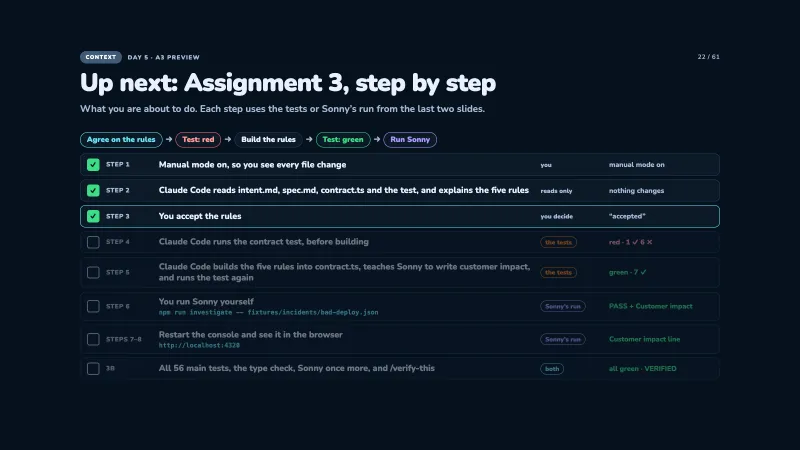
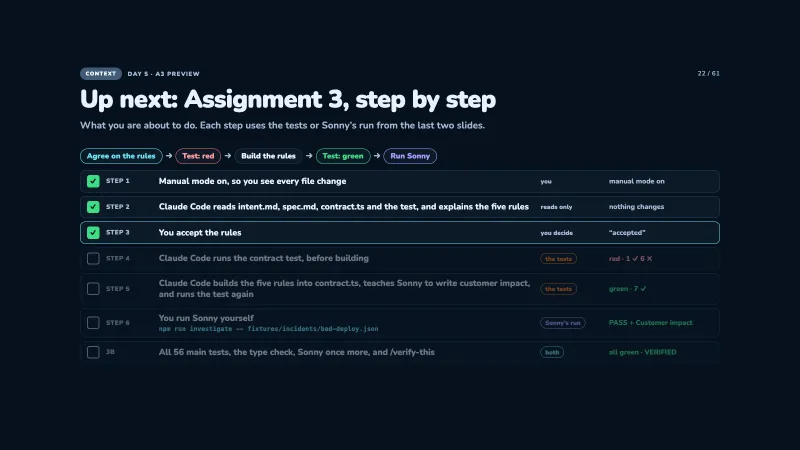
Day 5 A3: browser steps 7–8 removed, A3 ends at step 6 in the terminal; 3B without the browser; review note for Ryan in the Overview
Why: tested on day5-after-a3, the console's "+ New investigation" never shows the
03:45 diagnosis from step 6. Without the shop it shows "no telemetry … start the
shop", and with a healthy shop it investigates the live shop (#noise, Customer
impact: none observed). The shop only starts in A6. So steps 7–8 and the 3B browser
step taught something that does not happen.

- A3: steps 7–8 removed. Expected text, checks, teach (do/done/copy/script/watch/
  changes) now say the Customer impact line shows in step 6.
- 3B: prompt a3BuildProve no longer asks for localhost:4320; browser step 4 removed;
  step 1 expected text and script lose "the browser".
- Slide 22 checklist: the "Steps 7–8" row removed, notes and step pictures s22-1..6 retaken.
- Slide 21 notes: 3B no longer lists the browser.
- Overview (app.js, opt-in): slide.review = {to, text} shows a yellow "✎ Ryan" tag on
  the tile and the note under the big preview. A3 carries a note for Ryan to check the
  console/shop question and A1 step 6.
- Caches: styles v196, slides v46, app v177.

diff --git a/day5-jessy-slides.js b/day5-jessy-slides.js
@@ -10,7 +10,7 @@ const PROMPTS = {
   a3Contract: `Read the accepted intent.md, docs/spec.md, src/contract.ts, src/runtime.ts, src/prompts.ts, and the A3 workshop test. Explain the verdict contract in plain English. Propose the smallest change for all five rules in TODO(A3): customer_impact is required and non-empty, rollback needs a deploys evidence line, a strong proposal needs at least two sources, low confidence cannot carry a strong proposal, and high confidence is refused while data_gaps exist. The change keeps unsupported claims OPEN and keeps the offline and optional model schemas aligned. Keep versions, regions, and customer segments OPEN unless the cited metric establishes them. Do not edit. Stop for my contract review.`,
   a3Build: `Use the accepted contract. Run only the focused A3 test. Explain the red assertion before editing. List the files that must change and why. Do not edit yet. Stop for my build-scope review.`,
   a3BuildImplement: `Implement the accepted A3 scope. Update TODO(A3), docs/spec.md, the contract and prompt schemas, every offline verdict branch, the affected fixtures, and the customer_impact output in src/cli.ts and console/index.html. Do not change unrelated scaffolding. Rerun only the focused A3 test and show the diff. Do not approve, execute, resolve, or push.`,
-  a3BuildProve: `Run the main tests, typecheck, and the offline investigation. Show customer_impact in the exact CLI output and at http://localhost:4320. Keep unsupported versions, regions, and customer segments OPEN. Report any failure before editing again. Do not push.`,
+  a3BuildProve: `Run the main tests, typecheck, and the offline investigation. Show customer_impact in the exact CLI output. Keep unsupported versions, regions, and customer segments OPEN. Report any failure before editing again. Do not push.`,
   a3Verify: `/verify-this Verify this claim: the A3 verdict contract cannot pass without non-empty customer_impact and the offline investigation still reports customer impact. Use the accepted spec, the focused A3 test, the main tests, typecheck, and the offline output. Report VERIFIED, NOT VERIFIED, or INCONCLUSIVE with file and output references. Stay read-only.`,
   a4Chat: `Read intent.md, src/chat.ts, and test/workshop/chat.test.ts. Explain the chat-refusal contract. Add a named MUTATION regex constant. Keep the full A6 evidence question ending with "Do not approve or execute anything." read-only. Refuse "Do not approve and roll back now." as a mutation. Show the focused chat test red, then implement only TODO(A4) in src/chat.ts. Rerun the focused chat test and show its output and the diff. Do not inspect approvals/audit.jsonl or edit .claude/, approvals/, lessons/lessons.md, PROGRESS.md, or bench/ratchet.json. Stop before the human hook step.`,
   a4Review: `Read the human edit in .claude/hooks/guard.mjs and test/workshop/guard.test.ts. Do not edit either file. Run only the focused guard test. Explain whether Edit and Write to bench/ratchet.json are denied. Do not claim that the hook blocks every shell command. Stop for my review.`,
@@ -61,12 +61,13 @@ const teachFromNotes = ({title, subtitle, keyPoints, notes}) => {
   };
 };
 
-const baseSlide = ({title, kicker, subtitle, type = 'concept', cards = [], keyPoints = [], notes, stage, beat, visual, layout, items, tagline, prompt, stepsHeading, steps, expected, repo, source, teach, mode, calm, assignmentId, detail}) => ({
-  title, kicker, subtitle, type, cards, keyPoints, notes, stage, beat, visual, layout, items, tagline, prompt, stepsHeading, steps, expected, repo, source, mode, calm, assignmentId, detail,
+const baseSlide = ({title, kicker, subtitle, type = 'concept', cards = [], keyPoints = [], notes, stage, beat, visual, layout, items, tagline, prompt, stepsHeading, steps, expected, repo, source, teach, mode, calm, assignmentId, detail, review}) => ({
+  title, kicker, subtitle, type, cards, keyPoints, notes, stage, beat, visual, layout, items, tagline, prompt, stepsHeading, steps, expected, repo, source, mode, calm, assignmentId, detail, review,
   teach: teach || teachFromNotes({title, subtitle, keyPoints, notes})
 });
 
-const assignmentSlide = ({number, title, subtitle, stage, duration, steps, after, checks, humanOpen, next, shot, teach, shotLabel}) => baseSlide({
+const assignmentSlide = ({number, title, subtitle, stage, duration, steps, after, checks, humanOpen, next, shot, teach, shotLabel, review}) => baseSlide({
+  review,
   title: `Assignment ${number}: ${title}`,
   kicker: `Day 5 · A${number} · BUILD`,
   subtitle,
@@ -136,6 +137,8 @@ const pauseSlide = (title, time, next, at) => baseSlide({
 });
 
 // Sonny’s run and the tests: the two ways into src/contract.ts (strip on top of slides 20 and 21; `here` = the lit one)
+// Review note for Ryan, shown only on the Overview page (tag on the tile + the note under the big preview)
+const REVIEW_A3 = {to: 'Ryan', text: 'Please check (Jessy, 10 Nov): Assignment 3 steps 7–8 (restart the console, “+ New investigation” in the browser) are removed from this deck. The console investigates the live demo shop (demo/data/telemetry.json, written by npm run shop), not the saved INC-1001 night, and the shop is only started in A6. Tested on day5-after-a3: without the shop, step 8 shows “no telemetry … start the shop (npm run shop)”; with a healthy shop it shows “#noise · no action · Customer impact: none observed”, so never the 03:45 diagnosis from step 6. Also removed: “at http://localhost:4320” from the 3B prompt and the 3B browser step. Still open: A1 step 6 expects “the shop, telemetry and listening” but nobody starts the shop there (the console shows “shop offline · no telemetry”). Is the browser step meant with the shop running, or should the console get the fixture data?'};
 const CONTRACT_DOORS = (here) => ({title: 'Two ways into src/contract.ts. They never touch.', here, otherNote: here ? 'last slide' : 'next slide', target: 'src/contract.ts', targetNote: 'the contract · parseVerdict()',
   doors: [{tag: 'A', icon: '🔎', name: 'Sonny’s run', when: 'Every incident, also at 03:45. Automatic.', cmd: 'npm run investigate', path: ['cli.ts', 'agent.ts']},
     {tag: 'B', icon: '🧪', name: 'The tests', when: 'Only when someone types it. Never at 03:45.', cmd: 'npm run test:workshop', path: ['contract.test.ts']}]});
@@ -855,7 +858,7 @@ const day5Slides = [
       {title: 'The score', body: 'Red first proves each test really checks something. Assignment 3 turns all seven green.'}
     ],
     keyPoints: ['The tests: npm run test:workshop → contract.test.ts → parseVerdict in contract.ts. No Sonny, no AI.', 'Seven made-up diagnoses: one must pass, six must be refused. Today 1 of 7 right; after Assignment 3, 7 of 7.', 'Only when someone types it: in Assignment 3 (steps 4 and 5) and 3B. Never at 03:45.'],
-    notes: 'Time: 11:34 · 4 min. No SDLC tracker. Clicks (→): 1–6 open the six code blocks, 7 the orange bar and the line at the bottom. Click a block to jump; ← steps back. Strip on top: the tests are lit now, Sonny’s run is dimmed. All code is from workshop/start, shortened with “…”. The path: npm run test:workshop = node scripts/test-workshop.mjs, which runs every *.test.ts in test/workshop/ with node --test (20 tests in 5 files: on workshop/start pass 6 / fail 14, that is why the bar shows the focused command). test/workshop/contract.test.ts imports only parseVerdict from src/contract.ts: nothing in src/ calls the tests, and the tests never call cli.ts or agent.ts. That is why you cannot follow the code from Sonny’s run to the tests: they only share contract.ts. The seven tests (checked on workshop/start with npx tsx --test test/workshop/contract.test.ts: pass 1 / fail 6; on tag day5-after-a3: pass 7 / fail 0): 1 complete verdict passes · 2 customer_impact required and non-empty · 3 rollback needs a deploys line · 4 a strong proposal needs 2 sources · 5 low confidence cannot carry a strong proposal · 6 at least one evidence line (already green: the format check refuses empty evidence) · 7 high confidence refused while data_gaps exist. Test 1 is red today because the contract does not know customer_impact yet (“customer_impact: unknown field”); 2–5 and 7 are red because the rules are missing. The refusal tests also check the reason text (/rollback requires a deploys/, /at least 2 sources/, /low confidence/, /data_gaps/). In Assignment 3 the step 4 prompt runs only this test before editing (red), step 5 reruns it after the build (green). Assignment 3B runs all main tests, the type check, npm run investigate and the browser, plus /verify-this. The bottom line: tests only answer “does the contract follow the rules?”. “Are these the right rules?” is the step 3 review (the team’s rules from docs/spec.md and the TODO(A3) comment, against the goal in intent.md). “Does Sonny still get through?” is Sonny’s run again: today offlineVerdict writes no customer_impact, so the A3 build also changes src/runtime.ts, src/prompts.ts and VERDICT_SCHEMA; step 6 shows it.',
+    notes: 'Time: 11:34 · 4 min. No SDLC tracker. Clicks (→): 1–6 open the six code blocks, 7 the orange bar and the line at the bottom. Click a block to jump; ← steps back. Strip on top: the tests are lit now, Sonny’s run is dimmed. All code is from workshop/start, shortened with “…”. The path: npm run test:workshop = node scripts/test-workshop.mjs, which runs every *.test.ts in test/workshop/ with node --test (20 tests in 5 files: on workshop/start pass 6 / fail 14, that is why the bar shows the focused command). test/workshop/contract.test.ts imports only parseVerdict from src/contract.ts: nothing in src/ calls the tests, and the tests never call cli.ts or agent.ts. That is why you cannot follow the code from Sonny’s run to the tests: they only share contract.ts. The seven tests (checked on workshop/start with npx tsx --test test/workshop/contract.test.ts: pass 1 / fail 6; on tag day5-after-a3: pass 7 / fail 0): 1 complete verdict passes · 2 customer_impact required and non-empty · 3 rollback needs a deploys line · 4 a strong proposal needs 2 sources · 5 low confidence cannot carry a strong proposal · 6 at least one evidence line (already green: the format check refuses empty evidence) · 7 high confidence refused while data_gaps exist. Test 1 is red today because the contract does not know customer_impact yet (“customer_impact: unknown field”); 2–5 and 7 are red because the rules are missing. The refusal tests also check the reason text (/rollback requires a deploys/, /at least 2 sources/, /low confidence/, /data_gaps/). In Assignment 3 the step 4 prompt runs only this test before editing (red), step 5 reruns it after the build (green). Assignment 3B runs all main tests, the type check and npm run investigate, plus /verify-this. The bottom line: tests only answer “does the contract follow the rules?”. “Are these the right rules?” is the step 3 review (the team’s rules from docs/spec.md and the TODO(A3) comment, against the goal in intent.md). “Does Sonny still get through?” is Sonny’s run again: today offlineVerdict writes no customer_impact, so the A3 build also changes src/runtime.ts, src/prompts.ts and VERDICT_SCHEMA; step 6 shows it.',
     teach: {
       time: '4 min',
       gist: 'Making sure the contract works: how you know it follows the rules. A test file gives the contract seven made-up diagnoses and checks every answer. No Sonny, no AI. It only runs when someone types it.',
@@ -887,13 +890,12 @@ const day5Slides = [
         {step: 'Step 4', text: 'Claude Code runs the contract test, before building', moment: 'B', label: 'the tests', out: 'red · 1 ✓ 6 ✗', tone: 'red'},
         {step: 'Step 5', text: 'Claude Code builds the five rules into contract.ts, teaches Sonny to write customer impact, and runs the test again', moment: 'B', label: 'the tests', out: 'green · 7 ✓', tone: 'green'},
         {step: 'Step 6', text: 'You run Sonny yourself', cmd: 'npm run investigate -- fixtures/incidents/bad-deploy.json', moment: 'A', label: 'Sonny’s run', out: 'PASS + Customer impact', tone: 'pass'},
-        {step: 'Steps 7–8', text: 'Restart the console and see it in the browser', cmd: 'http://localhost:4320', moment: 'A', label: 'Sonny’s run', out: 'Customer impact line', tone: 'pass'},
         {step: '3B', text: 'All 56 main tests, the type check, Sonny once more, and /verify-this', moment: 'A + B', label: 'both', out: 'all green · VERIFIED', tone: 'green'}
       ],
       foot: 'Test first (red), then the rules, then test again (green), then run Sonny himself.'
     }},
-    keyPoints: ['Agree on the rules → test: red → build the rules → test: green → run Sonny.', 'Steps 4 and 5 use the tests. Steps 6–8 use Sonny’s run.', 'Assignment 3B does both again, and a second check looks at the evidence.'],
-    notes: 'Time: 11:38 · 2 min. No SDLC tracker. A preview, not the assignment: nobody types anything yet. Clicks (→): each click ticks the next row (☐ → ✓); after the last row the line at the bottom appears. Click a row to tick up to it; ← unticks. The rows follow the eight steps on the Assignment 3 slide plus 3B. Step 4 = the PROMPTS.a3Build prompt (runs only the focused A3 test: pass 1 / fail 6 on workshop/start). Step 5 = PROMPTS.a3BuildImplement (about 9 files; test 7 / 0, as on tag day5-after-a3). Step 6 output after the build: “Customer impact: checkout error_rate rose from 0.003 to 0.12; users of checkout may see failures or slowness … affected segments remain OPEN” and PASS contract (checked on day5-after-a3). 3B: the main tests, the type check, the offline investigation and the browser, then /verify-this returns VERIFIED, NOT VERIFIED or INCONCLUSIVE.',
+    keyPoints: ['Agree on the rules → test: red → build the rules → test: green → run Sonny.', 'Steps 4 and 5 use the tests. Step 6 uses Sonny’s run.', 'Assignment 3B does both again, and a second check looks at the evidence.'],
+    notes: 'Time: 11:38 · 2 min. No SDLC tracker. A preview, not the assignment: nobody types anything yet. Clicks (→): each click ticks the next row (☐ → ✓); after the last row the line at the bottom appears. Click a row to tick up to it; ← unticks. The rows follow the six steps on the Assignment 3 slide plus 3B. Step 4 = the PROMPTS.a3Build prompt (runs only the focused A3 test: pass 1 / fail 6 on workshop/start). Step 5 = PROMPTS.a3BuildImplement (about 9 files; test 7 / 0, as on tag day5-after-a3). Step 6 output after the build: “Customer impact: checkout error_rate rose from 0.003 to 0.12; users of checkout may see failures or slowness … affected segments remain OPEN” and PASS contract (checked on day5-after-a3). 3B: the main tests, the type check and the offline investigation, then /verify-this returns VERIFIED, NOT VERIFIED or INCONCLUSIVE.',
     teach: {
       time: '2 min',
       gist: 'A preview of Assignment 3 as a checklist: agree on the rules, test red, build, test green, run Sonny. Each step uses the tests or Sonny’s run from the last two slides.',
@@ -902,11 +904,11 @@ const day5Slides = [
         {shot: 'assets/day5-jessy-teach/s22-2.webp', do: 'Click three times: steps 1, 2 and 3 get a tick.', say: ['First manual mode, so you see every change. Then Claude Code reads and explains the five rules. Nothing changes.', 'Then you decide: you type “accepted”. You own the rules.']},
         {shot: 'assets/day5-jessy-teach/s22-3.webp', do: 'Click: step 4.', say: ['Step 4 uses the tests: Claude Code runs the contract test before building. Red: one of seven.']},
         {shot: 'assets/day5-jessy-teach/s22-4.webp', do: 'Click: step 5.', say: ['Then it builds the rules into the contract, teaches Sonny to write customer impact, and runs the test again. Green: seven of seven.']},
-        {shot: 'assets/day5-jessy-teach/s22-5.webp', do: 'Click twice: steps 6 and 7–8.', say: ['Steps 6 to 8 are Sonny’s run: you run him yourself, the same command as in Assignment 1. Now with a Customer impact line, and PASS.', 'Then the same in the browser.']},
+        {shot: 'assets/day5-jessy-teach/s22-5.webp', do: 'Click: step 6.', say: ['Step 6 is Sonny’s run: you run him yourself, the same command as in Assignment 1. Same incident, now with a Customer impact line, and PASS.']},
         {shot: 'assets/day5-jessy-teach/s22-6.webp', do: 'Click: 3B. The line at the bottom appears.', say: ['And 3B does it all again, plus a second check with fresh eyes.', 'Remember the order: test first, then the rules, then test again, then run Sonny.']},
         {ask: 'In which step do you find out if Sonny still gets through?', say: ['(Answer: step 6, when you run Sonny. The tests in step 5 never use his own diagnosis.)']}
       ],
-      learn: ['The order of Assignment 3: rules, red, build, green, run Sonny.', 'Steps 4–5 use the tests, steps 6–8 Sonny’s run.'],
+      learn: ['The order of Assignment 3: rules, red, build, green, run Sonny.', 'Steps 4–5 use the tests, step 6 Sonny’s run.'],
       watch: ['Someone starts typing: not yet, this is only the preview. The next slide has the prompts.', 'Someone asks why the test comes before the build: red first shows the test really catches the missing rules. Green after the build means the rules are really there.', 'Keep it short: 2 minutes. The details are on the assignment slide.'],
       terms: [['Sonny’s run', 'the contract checks his diagnosis'], ['The tests', 'made-up diagnoses check the contract']],
       next: 'Assignment 3: agree on the rules, then build them.'
@@ -921,18 +923,16 @@ const day5Slides = [
       {text: 'Type this in: Claude Code. Goal: see the red test and the plan before anything changes.', prompt: PROMPTS.a3Build, after: '6 of the 7 A3 tests red, why, and a list of about 9 files that must change. Nothing changes yet.'},
       {text: 'Type this in: Claude Code. Goal: build it.', prompt: PROMPTS.a3BuildImplement, after: 'Claude Code asks permission per file. At the end: the A3 test 7 of 7 green, and the diff.'},
       {text: 'Type this in: Window 2. Goal: see the difference with Assignment 1, same command.', prompt: 'npm run investigate -- fixtures/incidents/bad-deploy.json', after: 'The same diagnosis as in Assignment 1, now with a new line: “Customer impact: … users of checkout may see failures or slowness …”.'},
-      {text: 'Type this in: Window 1. The console is Sonny in the browser: the page the operator works in. It still runs your old code, so press Ctrl+C first, then start it again.', prompt: 'AGENT_LISTEN_WINDOW_MIN=1 npm run console', after: 'The console runs again, now with your new contract.', warn: true},
-      {text: 'Open in browser: http://localhost:4320. Click “+ New investigation”, then “Investigate: customers report checkout errors”. This runs the same investigation as step 6, now where the operator sees it.', after: 'The diagnosis shows a “Customer impact” line.'}
     ],
-    after: 'The A3 tests are green, and the diagnosis shows Customer impact in the terminal and the browser.',
-    checks: ['The A3 test: 7 of 7 green.', 'You can name the five rules.', 'The browser shows a Customer impact line.'],
-    humanOpen: 'You accept the rules and review every file change. Nothing is approved or rolled back.', next: 'Done means: everything still works',
+    after: 'The A3 tests are green, and the same diagnosis as in Assignment 1 now shows a Customer impact line.',
+    checks: ['The A3 test: 7 of 7 green.', 'You can name the five rules.', 'Step 6 shows a Customer impact line.'],
+    humanOpen: 'You accept the rules and review every file change. Nothing is approved or rolled back.', next: 'Done means: everything still works', review: REVIEW_A3,
     teach: {
       time: '25 min',
       gist: 'Claude Code explains the five rules, you accept them, it shows the plan, then builds. The A3 tests go from 6 red to 7 green.',
-      do: ['Check manual mode, let Claude Code explain the rules, accept them, review the plan, approve the build, restart the console, check the browser.'],
-      done: ['The A3 test: 7 of 7 green.', 'They can name the five rules.', 'Customer impact shows in the browser.'],
-      copy: [['Step 2 · Claude Code', PROMPTS.a3Contract], ['Step 4 · Claude Code', PROMPTS.a3Build], ['Step 5 · Claude Code', PROMPTS.a3BuildImplement], ['Step 6 · Window 2', 'npm run investigate -- fixtures/incidents/bad-deploy.json'], ['Step 7 · Window 1 (Ctrl+C first)', 'AGENT_LISTEN_WINDOW_MIN=1 npm run console'], ['Step 8 · Browser', 'http://localhost:4320'], ['After each step · Window 2', 'git status']],
+      do: ['Check manual mode, let Claude Code explain the rules, accept them, review the plan, approve the build, run Sonny once more in the terminal.'],
+      done: ['The A3 test: 7 of 7 green.', 'They can name the five rules.', 'Customer impact shows in the terminal (step 6).'],
+      copy: [['Step 2 · Claude Code', PROMPTS.a3Contract], ['Step 4 · Claude Code', PROMPTS.a3Build], ['Step 5 · Claude Code', PROMPTS.a3BuildImplement], ['Step 6 · Window 2', 'npm run investigate -- fixtures/incidents/bad-deploy.json'], ['After each step · Window 2', 'git status']],
       script: [
         {do: 'Slide appears. Goal of this assignment.', say: ['You saw both: Sonny’s run goes through the contract, and the tests make sure the contract works. Now you build the five rules into it, in the order of the preview.', 'Same rhythm as Assignment 2: Claude Code explains, you decide, then it builds.', 'The biggest assignment of the day: 25 minutes, about 9 files.']},
         {do: 'Step 1 · manual mode.', say: ['Why: Claude Code is about to change about 9 files. You want to see each change.', '“manual mode on”. Not there? Shift+Tab.']},
@@ -943,19 +943,17 @@ const day5Slides = [
         {do: 'Step 5 · build. Paste the third prompt.', copy: [['Step 5 · Claude Code', PROMPTS.a3BuildImplement]], say: ['Why: now the rules go into the code, everywhere the diagnosis goes.', 'In the project, about 9 files change:', 'src/contract.ts: the check itself, the five rules.', 'src/runtime.ts and src/prompts.ts: the agent’s answers now include customer impact.', 'docs/spec.md: the description of a diagnosis.', 'src/cli.ts and console/index.html: the terminal and the web page show the new line.', 'Plus a few test files and approvals/README.md get one line.', 'They see: a permission question per file. For docs/spec.md and test files the guard asks extra: “confirm this edit with the human”.', 'At the end: the A3 test 7 of 7 green, and the diff.']},
         {do: 'Show PROGRESS.md.', say: ['The hook adds an “A-3 spec + contract” entry: the check now mentions customer_impact.']},
         {do: 'Step 6 · same command as Assignment 1, in Window 2.', copy: [['Step 6 · Window 2', 'npm run investigate -- fixtures/incidents/bad-deploy.json']], say: ['Why: see with your own eyes what changed, with the exact same incident. Now Sonny’s run: does he still get through the new contract?', 'They see: the same diagnosis as in Assignment 1, plus a new line: Customer impact.', '“affected segments remain OPEN”: it does not guess which customers.']},
-        {do: 'Step 7 · restart the console in Window 1.', copy: [['Step 7 · Window 1', 'AGENT_LISTEN_WINDOW_MIN=1 npm run console']], say: ['What it is: the console is Sonny in the browser, the page the operator works in at 03:45. A list of incidents, a chat, Approve and Reject buttons. You started it in Assignment 1.', 'Why restart: it loaded Sonny’s code when it started, so it still has the old contract. Ctrl+C, then start it again.', 'The terminal command is the builder’s quick way in. The console is where the real user works. You check your change in both places.']},
-        {do: 'Step 8 · see it. Browser: + New investigation.', say: ['“+ New investigation” is like a customer calling in: it makes an incident, and Sonny runs the same investigation as in step 6. The browser way in from the code slide.', 'They see: the diagnosis with a new line, Customer impact. Same line as in Window 2 at step 6.', 'This afternoon you work in the console: refusing “roll back” in the chat, and a live incident with Approve and Reject.']},
-        {do: 'Wrap up.', say: ['The contract works: every diagnosis now goes through five rules, in the terminal and in the browser.', 'But you changed the shape of every diagnosis. Does the rest of Sonny still work? That is next.']}
+        {do: 'Wrap up.', say: ['The contract works: every diagnosis now goes through five rules. Same incident as this morning, now with Customer impact.', 'But you changed the shape of every diagnosis. Does the rest of Sonny still work? That is next.']}
       ],
       learn: ['Understand and accept the rules before building.', 'See the red test and the file list first, then build.', 'One rule ends up everywhere the diagnosis goes: contract, agent, description, terminal, web page.'],
-      watch: ['Many permission questions in step 5: read the first few. Then they may pick “allow edits for this session”; the guard still asks for docs/spec.md and test files.', 'Claude Code edits in step 2 or 4: say “stop, do not edit yet”.', 'Claude Code removes or weakens an existing rule to make a test green: reject it.', 'Test still red after step 5: ask Claude Code to show the red line and fix only that.', 'No Customer impact in the browser: the console was not restarted (step 7), or it is an old incident: start a new investigation.', 'Port 4320 in use after Ctrl+C: wait a second, or close the old window.', 'Someone asks what AGENT_LISTEN_WINDOW_MIN=1 does: the console also watches the live shop’s graphs every 10 seconds and opens an incident by itself after 1 minute of errors (default 5). That matters in Assignment 6; for Assignment 3 you can ignore it.', 'Stuck far behind: Assignment 3B has a catch-up command that jumps to the finished A3.'],
+      watch: ['Many permission questions in step 5: read the first few. Then they may pick “allow edits for this session”; the guard still asks for docs/spec.md and test files.', 'Claude Code edits in step 2 or 4: say “stop, do not edit yet”.', 'Claude Code removes or weakens an existing rule to make a test green: reject it.', 'Test still red after step 5: ask Claude Code to show the red line and fix only that.', 'Someone asks about the console in the browser: this morning we stay with the saved 03:45 night in the terminal. The console looks at the live shop, which comes in the afternoon (Assignments 4 and 6). Leave it running.', 'Stuck far behind: Assignment 3B has a catch-up command that jumps to the finished A3.'],
       terms: [['Diagnosis', 'what Sonny writes: what is happening, root cause with evidence, how sure, one proposed fix (the code calls it “verdict”)'], ['Contract', 'the rules every diagnosis must follow (src/contract.ts)'], ['Schema', 'the form a diagnosis must have: which fields, which types'], ['Fixtures', 'the sample data and saved answers the tests use'], ['OPEN', 'the agent says: I do not know this yet']],
       changes: [
         ['Before step 2', 'From A1 and A2: `modified: intent.md`, `modified: PROGRESS.md`. Nothing else.'],
         ['After steps 2, 3 and 4', 'Nothing new. Claude Code only read, explained and ran the A3 test.'],
         ['After step 5 · build', 'About 9 modified files: `src/contract.ts`, `src/runtime.ts`, `src/prompts.ts`, `src/cli.ts`, `console/index.html`, `docs/spec.md`, often a few `test/*.test.ts` and `approvals/README.md`. The exact list can differ per person. PROGRESS.md gets an “A-3” entry.'],
         ['Show one change', '`git diff -- src/cli.ts`: one new line, the Customer impact output. Small and easy to read.'],
-        ['After steps 6, 7 and 8', 'Nothing new. Running the agent and restarting the console change no files.']
+        ['After step 6', 'Nothing new. Running the agent changes no files.']
       ],
       next: 'Done means: everything still works.'
     }
@@ -1001,10 +999,9 @@ const day5Slides = [
   {...checkpointSlide({
     number: 3, title: 'verify the verdict contract', subtitle: 'Prove the whole Sonny still works with your new rule, not just the contract. Then a second check that does not take Claude Code’s word for it. You read the evidence yourself.', stage: 'contract', duration: '12:08 · 7 min', shot: 'assets/day5-expected/a3.png',
     steps: [
-      {text: 'Type this in: Claude Code. Goal: run everything, not just the contract test: the main tests, the type check, and Sonny.', prompt: PROMPTS.a3BuildProve, after: 'Main tests 56 of 56 green, the type check without errors, and Customer impact in the terminal and the browser. Something red? Claude Code reports it before it changes anything.'},
+      {text: 'Type this in: Claude Code. Goal: run everything, not just the contract test: the main tests, the type check, and Sonny.', prompt: PROMPTS.a3BuildProve, after: 'Main tests 56 of 56 green, the type check without errors, and Customer impact in Sonny’s output. Something red? Claude Code reports it before it changes anything.'},
       {text: 'Type this in: Claude Code. Goal: a second, independent check of the claim.', prompt: PROMPTS.a3Verify, after: 'One word back: VERIFIED, NOT VERIFIED or INCONCLUSIVE, with the files and output it looked at.'},
       {text: 'You check. Goal: open every file and output it names.', after: 'Each one really shows what the check says.'},
-      {text: 'Open in browser: http://localhost:4320', after: 'The Customer impact line matches what was verified.'},
       {text: 'Type this in: Window 2. Goal: only if you are stuck: save your work and jump to the finished version of Assignment 3.', prompt: 'git stash push -u -m "before Day 5 A3 catch-up" && git switch -c day5-catch-up-a3 day5-after-a3', after: 'Your work is saved, and you continue from the finished Assignment 3.', warn: true}
     ],
     after: 'The claim “the contract refuses a diagnosis without customer impact” is verified, with the files and output to show it.',
@@ -1017,11 +1014,11 @@ const day5Slides = [
       copy: [['Step 1 · Claude Code', PROMPTS.a3BuildProve], ['Step 2 · Claude Code', PROMPTS.a3Verify], ['Stuck · Window 2', 'git stash push -u -m "before Day 5 A3 catch-up" && git switch -c day5-catch-up-a3 day5-after-a3']],
       script: [
         {do: 'Slide appears. Goal of this assignment.', say: ['Claude Code says it is done. Do you believe it?', 'Same idea as the contract, one level up: the contract checks Sonny’s work before the operator sees it. Now the tests and a second check look at Claude Code’s work before you accept it.', 'In the SDLC this is the Test step.']},
-        {do: 'Step 1 · run everything. Paste the first prompt.', copy: PROMPTS.a3BuildProve, say: ['Why: the last slide. The contract test was green, but did anything else break?', 'In the project: the 56 main tests, the type check, and Sonny himself in the terminal and the browser. Nothing changes.', 'Normal: 56 of 56 green, no type errors, Customer impact in both places. The workshop tests for this afternoon are not part of this: they are still red, and that is fine.']},
+        {do: 'Step 1 · run everything. Paste the first prompt.', copy: PROMPTS.a3BuildProve, say: ['Why: the last slide. The contract test was green, but did anything else break?', 'In the project: the 56 main tests, the type check, and Sonny himself on the 03:45 incident. Nothing changes.', 'Normal: 56 of 56 green, no type errors, a Customer impact line in his output. The workshop tests for this afternoon are not part of this: they are still red, and that is fine.']},
         {ask: 'Claude Code reports 4 main tests red. What now?', say: ['(Answer: something that worked is broken. Usually Sonny does not write customer impact everywhere yet. Let Claude Code show the red line and fix only that, then run everything again.)']},
         {do: 'Step 2 · a second check. Paste the second prompt.', say: ['Why: so far Claude Code checked its own work. Now a separate check that only reads, with one claim: no diagnosis gets through without customer impact, and Sonny still writes it.', '/verify-this is a skill in the project. It looks at the spec, the tests and the output, and answers VERIFIED, NOT VERIFIED or INCONCLUSIVE, with the files it looked at.']},
         {ask: 'INCONCLUSIVE: is that bad?', say: ['(Answer: no. It means: not enough evidence to say yes or no. Ask what is missing.)']},
-        {do: 'Step 3 · you check.', say: ['Why: the human in the loop again. Open what it names, and look for yourself. Then step 4: the same line in the browser.']},
+        {do: 'Step 3 · you check.', say: ['Why: the human in the loop again. Open what it names, and look for yourself.']},
         {do: 'Stuck: point at the last step.', say: ['Far behind? This saves your work and jumps to the finished Assignment 3, so you are ready after lunch.']}
       ],
       learn: ['Done means: the main tests and the type check are still green, not only your own test.', 'A second check that only reads gives fresh eyes.', 'You still read the evidence yourself.'],

diff --git a/app.js b/app.js
@@ -1691,7 +1691,8 @@ function renderOverviewPage() {
   const next = node('button', 'ov-arrow', '→'); next.setAttribute('aria-label', 'Next slide');
   const screen = node('div', 'ov-screen'); const bf = document.createElement('iframe'); bf.tabIndex = -1; bf.setAttribute('aria-hidden', 'true'); bf.scrolling = 'no'; screen.append(bf);
   const info = node('div', 'ov-info'); const title = node('strong'); const notesBtn = node('button', 'ov-deck', 'Presenter notes'); const deckBtn = node('button', 'ov-deck', 'Show in deck ↗'); info.append(title, notesBtn, deckBtn);
-  const col = node('div', 'ov-bigcol'); col.append(screen, info);
+  const review = node('div', 'ov-review'); review.hidden = true;   // opt-in per slide: slide.review = {to, text}, a note for a colleague, only on this page
+  const col = node('div', 'ov-bigcol'); col.append(screen, info, review);
   // presenter notes of the selected slide, beside the big view (the presenter page in notes-only mode)
   const notes = node('div', 'ov-notes'); let nf = null;
   const showNotes = () => { try { nf?.contentWindow?.renderSlide?.(sel); } catch {} };
@@ -1728,6 +1729,7 @@ function renderOverviewPage() {
     const tile = node('button', 'ov-tile' + (isHidden(i) ? ' is-hidden' : '')); tile.dataset.type = slideType(s);
     const shot = node('div', 'ov-shot'); shot.dataset.n = String(i + 1);
     const cap = node('div', 'ov-cap'); cap.append(node('span', 'ov-num', String(i + 1)), node('strong', null, s.title));
+    if (s.review) { const t = node('span', 'ov-review-tag', '✎ ' + (s.review.to || 'Review')); t.title = s.review.text; cap.append(t); }
     // eye on hover: hide or show this slide (same list as H in the deck: the arrows skip it); a hidden slide stays visible here, darker
     const eye = node('span', 'ov-eye'); eye.setAttribute('role', 'button'); eye.tabIndex = 0;
     const paintEye = () => { const h = isHidden(i); tile.classList.toggle('is-hidden', h); eye.innerHTML = h ? EYE_OFF : EYE_ON; eye.title = h ? 'Hidden: click to show this slide again' : 'Hide this slide (the arrows skip it)'; eye.setAttribute('aria-label', (h ? 'Show' : 'Hide') + ' slide ' + (i + 1)); };
@@ -1740,7 +1742,11 @@ function renderOverviewPage() {
     tile.addEventListener('dblclick', () => showInDeck(i));
     grid.append(tile); io.observe(shot); ro.observe(shot); return tile;
   });
-  function paintSel() { title.textContent = (sel + 1) + ' · ' + slides[sel].title + (isHidden(sel) ? '  (hidden)' : ''); }
+  function paintSel() {
+    title.textContent = (sel + 1) + ' · ' + slides[sel].title + (isHidden(sel) ? '  (hidden)' : '');
+    const r = slides[sel].review; review.hidden = !r; review.replaceChildren();
+    if (r) review.append(node('strong', null, '✎ For ' + (r.to || 'review')), node('span', null, r.text));
+  }
   function select(i) {
     sel = Math.min(Math.max(i, 0), slides.length - 1);
     tiles.forEach((t, k) => t.classList.toggle('is-current', k === sel));

diff --git a/day5-jessy.html b/day5-jessy.html
@@ -1,5 +1,5 @@
 <!doctype html>
-<html lang="en"><head><meta charset="utf-8"><meta http-equiv="Cache-Control" content="no-cache, no-store, must-revalidate"><meta http-equiv="Pragma" content="no-cache"><meta http-equiv="Expires" content="0"><meta name="viewport" content="width=device-width,initial-scale=1"><meta name="theme-color" content="#06111e"><title>Day 5 · AI-native SDLC (Jessy) · Aetherlink classroom</title><meta name="description" content="Day 5: a newcomer builds an AI on-call agent through six evidence-led assignments with Claude Code."><link rel="stylesheet" href="styles.css?v=194"><link rel="stylesheet" href="assets/day5-mobile.css?v=1"><script>window.ASG_PROMPT = true; window.ASG_WIDE = true; window.PRESENTER_PAGE = "day5-jessy-presenter.html"; window.OVERVIEW_SHEET = "https://claude.ai/artifact/46G6q235cuFtgRUruznWXm";</script><script src="day5-jessy-slides.js?v=45" defer></script><script src="demo-fallback.js?v=94" defer></script><script src="timers.js?v=92" defer></script><script src="sessions.js?v=20" defer></script><script src="app.js?v=176" defer></script><script src="fit-stage.js?v=2" defer></script></head>
+<html lang="en"><head><meta charset="utf-8"><meta http-equiv="Cache-Control" content="no-cache, no-store, must-revalidate"><meta http-equiv="Pragma" content="no-cache"><meta http-equiv="Expires" content="0"><meta name="viewport" content="width=device-width,initial-scale=1"><meta name="theme-color" content="#06111e"><title>Day 5 · AI-native SDLC (Jessy) · Aetherlink classroom</title><meta name="description" content="Day 5: a newcomer builds an AI on-call agent through six evidence-led assignments with Claude Code."><link rel="stylesheet" href="styles.css?v=196"><link rel="stylesheet" href="assets/day5-mobile.css?v=1"><script>window.ASG_PROMPT = true; window.ASG_WIDE = true; window.PRESENTER_PAGE = "day5-jessy-presenter.html"; window.OVERVIEW_SHEET = "https://claude.ai/artifact/46G6q235cuFtgRUruznWXm";</script><script src="day5-jessy-slides.js?v=46" defer></script><script src="demo-fallback.js?v=94" defer></script><script src="timers.js?v=92" defer></script><script src="sessions.js?v=20" defer></script><script src="app.js?v=177" defer></script><script src="fit-stage.js?v=2" defer></script></head>
 <body class="day5-mobile"><a class="skip" href="#stage">Skip to presentation</a>
 <header class="toolbar">
   <a class="brand" href="#1" aria-label="Aetherlink, slide 1"><img class="brand-mark" src="assets/aetherlink-mark.png" alt="" width="44" height="44">AETHER<span>LINK</span><small>WORLDLINE · CLASSROOM</small></a>

diff --git a/day5-jessy-presenter.html b/day5-jessy-presenter.html
@@ -1,6 +1,6 @@
 <!doctype html>
 <html lang="en"><head><meta charset="utf-8"><meta http-equiv="Cache-Control" content="no-cache, no-store, must-revalidate"><meta http-equiv="Pragma" content="no-cache"><meta http-equiv="Expires" content="0"><meta name="viewport" content="width=device-width,initial-scale=1"><meta name="theme-color" content="#06111e"><title>Presenter view · Day 5 · AI-native SDLC</title>
-<link rel="stylesheet" href="styles.css?v=194">
+<link rel="stylesheet" href="styles.css?v=196">
 <style>
   body{padding:1.4rem clamp(1rem,3vw,2.2rem);gap:1.2rem;min-height:100vh}
   .p-top{display:flex;justify-content:space-between;align-items:center;gap:1rem;flex-wrap:wrap;border-bottom:1px solid var(--border);padding-bottom:1rem}
@@ -149,7 +149,7 @@
       </div>
     </div>
   </div>
-  <script>window.DECK_PAGE = "day5-jessy.html"; window.PRESENTER_SKIP_HIDDEN = true;</script><script src="day5-jessy-slides.js?v=45" defer></script>
+  <script>window.DECK_PAGE = "day5-jessy.html"; window.PRESENTER_SKIP_HIDDEN = true;</script><script src="day5-jessy-slides.js?v=46" defer></script>
   <script src="timers.js?v=92" defer></script>
   <script>
     const upgradeDay5Clip = video => {

diff --git a/styles.css b/styles.css
@@ -2535,3 +2535,12 @@ html.ov-page body{min-height:100vh;background:var(--bg)}
 .sm-ex-to{font-weight:900;color:var(--muted);font-size:.85rem}
 .sm-ex-foot{margin:0;font-size:.9rem;font-weight:800}
 @media (max-width:900px){.cards.sm-grid{grid-template-columns:1fr}.sm-ex-row{grid-template-columns:1fr}}
+
+/* Overview: a review note for a colleague (opt-in: slide.review) */
+.ov-review-tag{margin-left:auto;flex:none;font-size:11px;font-weight:700;padding:2px 7px;border-radius:999px;background:#ffe9a8;color:#5a4300;white-space:nowrap}
+.ov-review{display:flex;gap:10px;align-items:flex-start;margin-top:8px;padding:10px 12px;border-radius:8px;background:#fff6d6;border:1px solid #f0d27a;color:#4a3a00;font-size:13px;line-height:1.45}
+.ov-review strong{flex:none;white-space:nowrap}
+.ov-review[hidden]{display:none}
+.ov-review{max-height:12vh;overflow:auto}
+.ov-bigcol:has(.ov-review:not([hidden])){width:min(100%,calc(44vh * 16 / 9))}
+.ov.notes-open .ov-bigcol:has(.ov-review:not([hidden])){width:min(100%,calc(38vh * 16 / 9))}
